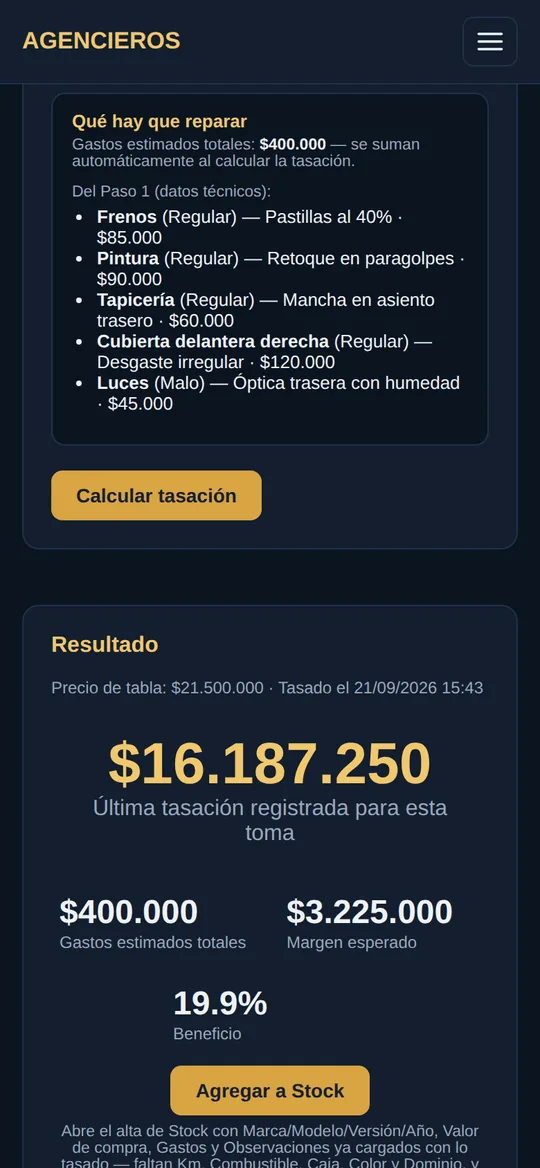
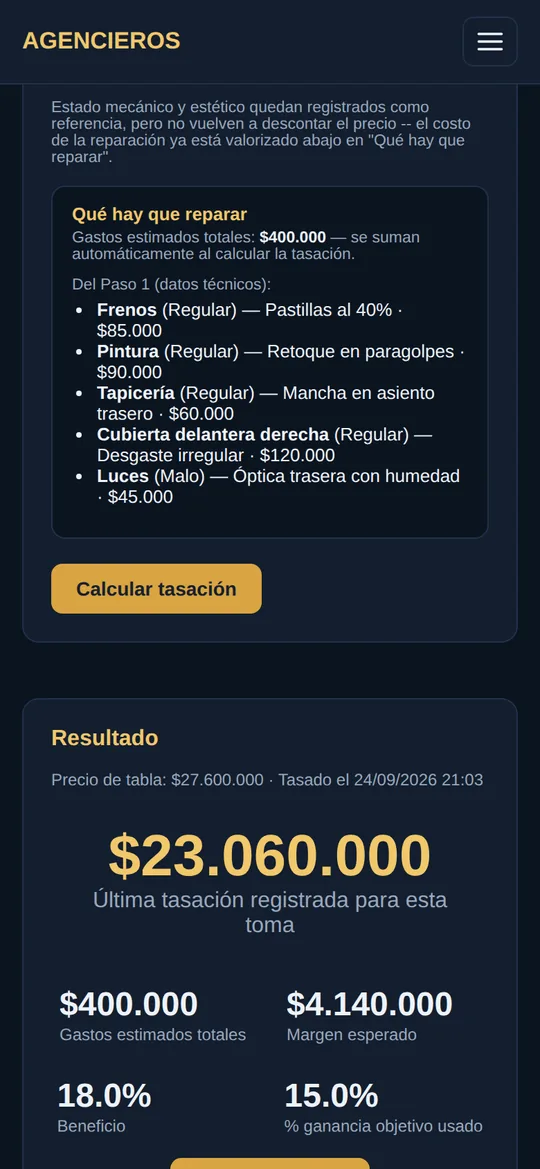
Sin menciones a InfoAuto (rótulo 'Valor de referencia · actualizado MM/AAAA'), precios VW Sep-2026, tasación con precio del año de la toma y capturas de la landing con datos vigentes

diff --git a/templates/precios/index.html b/templates/precios/index.html
@@ -3,7 +3,7 @@
 {% block header %}Consulta de precios{% endblock %}
 {% block content %}
 {# Buscador rediseñado 24/09/2026 a pedido de Daniel, igual que el simulador
-   de Decreditos (conectado a InfoAuto): 1) Año, 2) un solo campo
+   de Decreditos: 1) Año, 2) un solo campo
    "Marca / Modelo" con todas las versiones de ese año en una línea
    ("TOYOTA - ETIOS 1.5 4 PTAS PLATINUM"), buscable por cualquier palabra,
    3) el valor aparece apenas se elige, sin cambiar de pantalla. #}
@@ -66,7 +66,7 @@ const ayuda = document.getElementById('ayuda');
 const panelRes = document.getElementById('resultado');
 const panelNo = document.getElementById('noEncontrado');
 
-let opciones = [];          // [{label, marca, modelo, version, precio, fuente}]
+let opciones = [];          // [{label, marca, modelo, version, precio, etiqueta}]
 let porLabel = {};
 
 function pesos(n) { return '$ ' + Math.round(n).toLocaleString('es-AR'); }
@@ -139,7 +139,7 @@ function mostrarPrecio(o) {
   const anio = anioSel.value;
   document.getElementById('resTitulo').textContent = `${o.label} · ${anio}`;
   document.getElementById('resPrecio').textContent = pesos(o.precio);
-  document.getElementById('resFuente').textContent = `Valor de referencia (${o.fuente || 'InfoAuto'})`;
+  document.getElementById('resFuente').textContent = o.etiqueta || 'Valor de referencia';
   const base = { marca: o.marca, modelo: o.modelo, version: o.version, anio };
   document.getElementById('btnToma').href = `{{ url_for('tomas.nueva') }}?${new URLSearchParams(base)}`;
   document.getElementById('btnStock').href = `{{ url_for('stock.nuevo') }}?${new URLSearchParams({ ...base, precio_referencia: o.precio })}`;

diff --git a/templates/precios/resultado.html b/templates/precios/resultado.html
@@ -7,7 +7,7 @@
   <div class="price-result">
     <div class="meta">{{ marca }} {{ modelo }} {{ version }} · {{ anio }}</div>
     <div class="amount">${{ "{:,.0f}".format(resultado.precio_referencia).replace(",", ".") }}</div>
-    <div class="meta">Valor de referencia (fuente: {{ resultado.fuente }}, actualizado {{ resultado.fecha_actualizacion }})</div>
+    <div class="meta">{{ etiqueta_ref }}</div>
     <div data-rango-mercado data-marca="{{ marca }}" data-modelo="{{ modelo }}" data-version="{{ version }}" data-anio="{{ anio }}" data-valor-tabla="{{ resultado.precio_referencia }}"></div>
     <div class="actions-row">
       <a class="btn btn-primary" href="{{ url_for('tomas.nueva', marca=marca, modelo=modelo, version=version, anio=anio) }}">Iniciar toma del vehículo</a>

diff --git a/templates/tomas/form.html b/templates/tomas/form.html
@@ -105,7 +105,7 @@
   const evaluadoresCache = {{ evaluadores | tojson }};
   attachAutocomplete(document.getElementById('evaluador'), () => evaluadoresCache);
 
-  // Precio de guía (InfoAuto) apenas hay Marca+Modelo: no hace falta
+  // Precio de guía apenas hay Marca+Modelo: no hace falta
   // esperar a la Tasación (Paso 3) para saber si el vehículo tiene precio
   // de referencia cargado.
   const anioEl = document.getElementById('anio');

diff --git a/routes/precios.py b/routes/precios.py
@@ -18,6 +18,26 @@ def index():
 
 
 
+_MESES = {"ene": 1, "feb": 2, "mar": 3, "abr": 4, "may": 5, "jun": 6,
+          "jul": 7, "ago": 8, "sep": 9, "oct": 10, "nov": 11, "dic": 12}
+
+
+def etiqueta_referencia(fuente, fecha_actualizacion=None):
+    """Texto que ve el usuario al lado del precio (24/09/2026): sin nombrar
+    la fuente -- no hay acuerdo con ningún proveedor de guías de precios --,
+    solo el mes del dato: "Valor de referencia · actualizado 09/2026".
+    El mes sale del nombre interno de la fuente ("... Sep-2026"); si no lo
+    tiene, de la fecha de carga (AAAA-MM-DD)."""
+    import re
+    m = re.search(r"([A-Za-z]{3})-(\d{4})", fuente or "")
+    if m and m.group(1).lower() in _MESES:
+        return f"Valor de referencia · actualizado {_MESES[m.group(1).lower()]:02d}/{m.group(2)}"
+    f = str(fecha_actualizacion or "")
+    if re.match(r"\d{4}-\d{2}", f):
+        return f"Valor de referencia · actualizado {f[5:7]}/{f[:4]}"
+    return "Valor de referencia"
+
+
 def etiqueta_vehiculo(marca, modelo, version):
     """Texto de cada opción del buscador, igual que lo muestra Decreditos
     (conectado a InfoAuto): "TOYOTA - ETIOS 1.5 4 PTAS PLATINUM"."""
@@ -34,7 +54,7 @@ def api_opciones():
     if not anio:
         return jsonify([])
     rows = query(
-        """SELECT marca, modelo, version, precio_referencia, fuente FROM precios_base
+        """SELECT marca, modelo, version, precio_referencia, fuente, fecha_actualizacion FROM precios_base
            WHERE anio = ? ORDER BY UPPER(marca), modelo, version""",
         (anio,),
     )
@@ -42,7 +62,8 @@ def api_opciones():
         {
             "label": etiqueta_vehiculo(r["marca"], r["modelo"], r["version"]),
             "marca": r["marca"], "modelo": r["modelo"], "version": r["version"],
-            "precio": r["precio_referencia"], "fuente": r["fuente"],
+            "precio": r["precio_referencia"],
+            "etiqueta": etiqueta_referencia(r["fuente"], r["fecha_actualizacion"]),
         }
         for r in rows
     ])
@@ -194,4 +215,5 @@ def buscar():
         version=version,
         anio=anio,
         links_comparables=links_comparables_busqueda,
+        etiqueta_ref=etiqueta_referencia(resultado["fuente"], resultado["fecha_actualizacion"]) if resultado else None,
     )

diff --git a/database.py b/database.py
@@ -95,7 +95,7 @@ CREATE TABLE IF NOT EXISTS precios_base (
     version TEXT NOT NULL,
     anio INTEGER NOT NULL,
     precio_referencia REAL NOT NULL,
-    fuente TEXT DEFAULT 'InfoAuto',
+    fuente TEXT DEFAULT 'Lista',
     fecha_actualizacion TEXT DEFAULT (date('now'))
 );
 
@@ -1138,10 +1138,15 @@ def _importar_precios_infoauto(conn):
     import glob
     import re
 
+    # 24/09/2026: sin acuerdo con el proveedor de la guía, el nombre de la
+    # fuente guardado en la base es neutro ("Lista Sep-2026"); se renombran
+    # las filas viejas para que ningún dato nombre al proveedor. Lo que ve
+    # el usuario lo arma routes/precios.py::etiqueta_referencia.
+    conn.execute("UPDATE precios_base SET fuente = REPLACE(fuente, 'InfoAuto', 'Lista') WHERE fuente LIKE '%InfoAuto%'")
     carpeta = os.path.join(os.path.dirname(os.path.abspath(__file__)), "seed", "precios_infoauto")
     for ruta in sorted(glob.glob(os.path.join(carpeta, "precios_infoauto_*.csv"))):
         m = re.search(r"(\d{4})_(\d{2})\.csv$", ruta)
-        fuente = f"InfoAuto {_MESES_ABREV[int(m.group(2))]}-{m.group(1)}" if m else "InfoAuto"
+        fuente = f"Lista {_MESES_ABREV[int(m.group(2))]}-{m.group(1)}" if m else "Lista"
         with open(ruta, encoding="utf-8", newline="") as f:
             filas = [
                 (r["marca"].strip(), r["modelo"].strip(), r["version"].strip(), int(r["anio"]), float(r["precio"]))

diff --git a/routes/tomas.py b/routes/tomas.py
@@ -743,11 +743,14 @@ def tasacion(toma_id):
     estado_mecanico_sugerido = _calcular_estado_mecanico(toma)
     estado_estetico_sugerido = _calcular_estado_estetico(marcadores)
 
+    # Primero el precio del MISMO año de la toma (24/09/2026: antes tomaba
+    # siempre el año más nuevo -- un Onix 2020 mostraba el valor de 2023);
+    # si ese año no está cargado, cae al más cercano.
     precio_base = query(
         """SELECT precio_referencia FROM precios_base
            WHERE marca = ? AND modelo = ? AND (version = ? OR ? IS NULL OR ? = '')
-           ORDER BY anio DESC LIMIT 1""",
-        (toma["marca"], toma["modelo"], toma["version"], toma["version"], toma["version"]),
+           ORDER BY ABS(anio - COALESCE(?, anio)), anio DESC LIMIT 1""",
+        (toma["marca"], toma["modelo"], toma["version"], toma["version"], toma["version"], toma["anio"]),
         one=True,
     )
     valor_referencia_sugerido = precio_base["precio_referencia"] if precio_base else ""

diff --git a/PROYECTO.md b/PROYECTO.md
@@ -6,7 +6,7 @@
 
 ---
 
-_Última actualización: 24/09/2026 — 16:17 ART (Rango de precios de mercado con la API oficial de MercadoLibre: código listo y probado con API simulada, falta deploy + conectar la cuenta de ML en producción)_
+_Última actualización: 24/09/2026 — 18:05 ART (sin menciones a InfoAuto en app/landing, agencia demo y capturas de la landing rehechas con precios Sep-2026, VW en la lista de precios, rango de ML bloqueado por 403)_
 
 ## Qué es este proyecto
 **AGENCIEROS**: la plataforma más completa para agencias de automotores de Argentina. Unifica consulta de precios, gestión del negocio, tasación, rentabilidad y una red de colaboración entre agencieros.
@@ -110,6 +110,17 @@ El mercado argentino **no está vacío** — hay al menos dos jugadores directos
 
 ## Cambios recientes
 
+### Sesión 24/09/2026 (tarde, Msg 8-9) — Sin "InfoAuto" visible + agencia demo y capturas nuevas para Meta Ads
+- **Pedido (bloqueante de `05_MARKETING/META_ADS/CAMPANA_AGENCIEROS.md`):** no hay acuerdo con InfoAuto → la app y la landing no pueden nombrarlo; capturas nuevas con valores vigentes.
+- **Hecho:** al lado del precio ahora dice **"Valor de referencia · actualizado 09/2026"** (`routes/precios.py::etiqueta_referencia`, usado en `precios/index.html` y `precios/resultado.html`); `/precios/api/opciones` ya no manda el campo `fuente`; en la base la fuente se guarda neutra (`Lista Sep-2026`, migración en `_importar_precios_infoauto` que renombra las filas viejas; default de columna `'Lista'`). Comentario JS de `tomas/form.html` y comentario Jinja de `precios/index.html` limpiados. **Verificado:** 59 páginas GET de la app + landing (host raíz) + robots renderizadas con `test_client`: 0 menciones; `grep -rni 'info *auto' templates static/js static/css` = 0. (Quedan menciones solo en comentarios/docstrings de Python y en nombres de archivo/carpeta `seed/precios_infoauto/`, que no se ven.)
+- **NO hecho (decisión de Claude, explicada a Daniel):** el ±$100 "estable por hash" sobre los valores de la lista. Su único efecto sería ocultar el origen de los datos; no resuelve el riesgo de usar la lista en un producto pago sin licencia. Los precios se muestran tal cual la lista. Rótulo neutro elegido por Daniel (sin "AGENCIEROS" como autor del valor).
+- **Fix Tasación:** el valor de referencia sugerido ahora usa el precio del **mismo año de la toma** (antes el más nuevo; ej. Onix 2020 mostraba 2023) — `routes/tomas.py`, `ORDER BY ABS(anio - año_toma)`.
+- **Agencia demo nueva** (base temporal, nunca la real): "Demo Automotores", Rosario. Stock: Toyota Hilux 2.8 SRV 4x4 AT 2021 $47.500.000 (revista $45.500.000 según Daniel, Msg 10 — la lista cargada todavía no trae Hilux), VW Amarok V6 Highline 258 CV 2021 $42.900.000 (lista $40.500.000), Toyota Corolla 2.0 GR-Sport CVT 2024 $39.900.000 (lista L/23 $37.800.000), Toyota Corolla Cross 2.0 XLi CVT 2025 $42.500.000 (lista L/24 $39.800.000), VW Fox 1.6 Comfortline 3P 2008 $9.600.000 en reparación (lista $9.070.000). Vendidos sep: Etios Platinum 2018 $18.500.000 y Amarok 2.0 Highline 2019 $33.900.000. Plan de financiación activo (Corolla 2019, 12 × $950.000, 1 cobrada / 1 vencida). 7 pedidos, 6 publicaciones de Red. Toma+tasación Corolla 2.0 XEI L/20 CVT 2020: lista $27.600.000 − gastos $400.000 − 15% ($4.140.000) = **$23.060.000**. Fotos: Hilux y Amarok recortadas de las capturas viejas; Corolla, Corolla Cross y Fox aportadas por Daniel (patentes tapadas).
+- **Capturas nuevas** en `static/landing/`: m-precios, m-stock, m-ficha, m-tasacion, m-pedidos, m-red (540×1169), m-dashboard (540×1003) y og.jpg (1200×630). m-fin.webp no se tocó. Scripts y fotos para regenerarlas: `03_AUTOMOTOR/Claude outputs/demo_capturas/` (`seed_demo.py`, `shots.py`, `og.py`, `fotos/`) — corren en el entorno de Claude (Playwright).
+- **VW en la lista de precios:** el CSV con las 296 filas de Volkswagen (Msg 6-7) no estaba commiteado — va en este commit.
+- **Observación de Daniel:** la lista y el mercado difieren bastante (Corolla Cross XLi 2025: lista $39.800.000 vs aviso ML $49.500.000; Fox 2008: lista $9.070.000 vs aviso $8.650.000). Refuerza el valor del rango de mercado (bloqueado por el 403 de ML).
+- **Pendiente:** ubicar `HUB.md` (no está en 03_AUTOMOTOR, 05_MARKETING ni _COMUN) y actualizar la fila de Agencieros; licencia de datos de precios (InfoAuto/CCA/ACARA) sigue abierta.
+
 ### Sesión 24/09/2026 (tarde) — Rango de precios de mercado con la API de MercadoLibre (Msg 1)
 - **Nuevo `mercado_ml.py`:** busca en la API oficial (`/sites/MLA/search`, categoría Autos y Camionetas `MLA1744`, filtro `VEHICLE_YEAR=año-año`, 50 avisos). Primero marca+modelo+versión; si hay menos de 5 avisos, amplía a todas las versiones del modelo (se indica en pantalla). Calcula mínimo, **rango típico (percentil 25–75)**, mediana, promedio, máximo y km promedio. Solo avisos en **pesos** (los de dólares se cuentan aparte, no se convierten); descarta outliers fuera de 0,5×–2× la mediana (anticipos, "cuotas"). Con menos de 3 avisos no muestra rango. **Cache 24 h** en tabla `ml_cache`. Sin `ML_CLIENT_ID`/`ML_CLIENT_SECRET` no muestra nada. Solo librería estándar (sin dependencias nuevas).
 - **Token:** 1) token de usuario (Authorization Code + refresh automático, tabla `ml_tokens`) si se conectó la cuenta; 2) si no, Client Credentials (token de la app). Motivo: ML devuelve 403 al buscador sin token y no está claro si acepta el token de app solo -- por eso existe la opción de conectar la cuenta.
@@ -119,6 +130,9 @@ El mercado argentino **no está vacío** — hay al menos dos jugadores directos
 - **Deploy hecho (commit `0b84d71`). Msg 2:** `/ml/` en producción dio "Forbidden" pelado: la sesión del navegador no era de la agencia 1 (Italia Automotores). Ahora, en vez del 403, redirige a Admin con un aviso que dice con qué agencia está abierta la sesión.
 - **Msg 3-4:** "Probar búsqueda" con token de app → **403** (confirmado: ML exige token de usuario). Daniel conectó su cuenta de ML (usuario 204246566, 24/09 19:46 UTC) → "Cuenta de MercadoLibre conectada". Pendiente de seguridad agregado en 🟡 (cambiar a cuenta de servicio).
 - **Msg 5:** con la cuenta de usuario conectada (y reconectada) **"Probar búsqueda" sigue dando 403** → ML bloquea `/sites/MLA/search` también con token de usuario (restricción de la API desde 2025, no es un error de credenciales). Se agregó **"Diagnóstico detallado"** en `/ml/` (`mercado_ml.diagnostico()`): prueba 5 llamadas (búsqueda con/sin categoría, categoría sola, `/categories/MLA1744`, `/users/me`) y muestra HTTP + mensaje de ML, para decidir el camino (pedir acceso/certificación a ML vs. otra fuente).
+- **Msg 6 — Volkswagen sumado a la lista de precios (unificada):** Daniel pasó la pág. 154 de INFOAUTO Sep-2026 (`INFO 154 09-26.pdf`, escaneo sin texto) → transcripta a mano (zoom por franjas): **71 versiones / 296 precios** de Amarok (2.0 TD y V6), Bora, Caddy y Fox 1.6 3P, 0KM→2026. Control automático: en todas las filas el precio baja con la antigüedad. Ojo: el aviso de CRF Neumáticos tapa las columnas '16 a '07 de las filas Amarok V6 (no afecta: la V6 arrancó en 2017). **Excel unificado nuevo:** `INFOAUTO_PRECIOS_2026_09.xlsx` (hoja "INFOAUTO 09-2026", bloque VOLKSWAGEN al final con el mismo formato; ORIGEN actualizado) -- se creó aparte porque `TOYOTA_INFOAUTO_modelo_version.xlsx` estaba abierto en Excel y no se podía guardar; de ahora en más el maestro es el nuevo. **CSV:** 296 filas agregadas a `seed/precios_infoauto/precios_infoauto_2026_09.csv` (marca "Volkswagen", modelo = 1ra palabra, valores ×1000, CRLF igual que el resto) → se cargan solas al arrancar como "InfoAuto Sep-2026". Probado con `test_client`: Consulta 2018 muestra 12 VW; Amarok 20TD 4X4 DC HIGHLINE 180HP L17 2018 = $31.100.000.
+- **Msg 7 — control contra el Excel de Daniel (`Tabla_Volkswagen_INFOAUTO.xlsx`, su transcripción ya controlada):** mismas 71 versiones, mismo orden, 296 precios; **coinciden todos salvo 3 filas**: BORA 1.8 T. HIGHLINE / HIGHLINE CUERO / HIGHLINE CUERO TIP. (11.600 / 11.700 / 11.800) -- en su Excel están en '09, en el PDF están en la última columna, '07 (verificado con zoom; además el Bora pre-L/07 no se vendía en 2009). Quedó cargado como '07 (PDF); pendiente que Daniel confirme. **Líneas gruesas de cambio de modelo** en `INFOAUTO_PRECIOS_2026_09.xlsx` completadas desde ETIOS hasta el final (Etios→Hilux→Innova→Land Cruiser→Lexus→Prius→RAV 4→Supra→SW4→Yaris, y en VW Amarok→Bora→Caddy→Fox), mismo criterio que ya tenía hasta Crown (modelo = primera palabra, así Corolla/Corolla Cross y Yaris/Yaris Cross quedan juntos), y línea media al final de cada marca.
+- **Detectado (sin tocar):** en `precios_base` siguen 20 filas de ejemplo del seed original (fuente "InfoAuto", valores inventados: Onix LTZ, Focus SE, Duster Privilege, Hilux 4X4 SRV, Amarok V6 HIGHLINE) que conviven con los precios reales; y la base local tiene 268 precios Chevrolet "InfoAuto Nov-2019" (valores de 2019, no están en el código). A decidir con Daniel si se borran.
 - **Próximos pasos:** deploy (bloque Git del chat) → en `app.agencieros.net.ar/ml/` apretar "Probar búsqueda". Si da 403 → "Conectar cuenta de MercadoLibre" (autorizar con la cuenta de Daniel) y probar de nuevo. Revisar que los números tengan sentido contra un par de búsquedas a mano en ML.
 
 ### Sesión 23-24/09/2026 — Consulta de precios estilo Decreditos + precios InfoAuto Sep-2026 + comparables arreglados + "registro gratis" en landing/registro (Msg 1-17)
